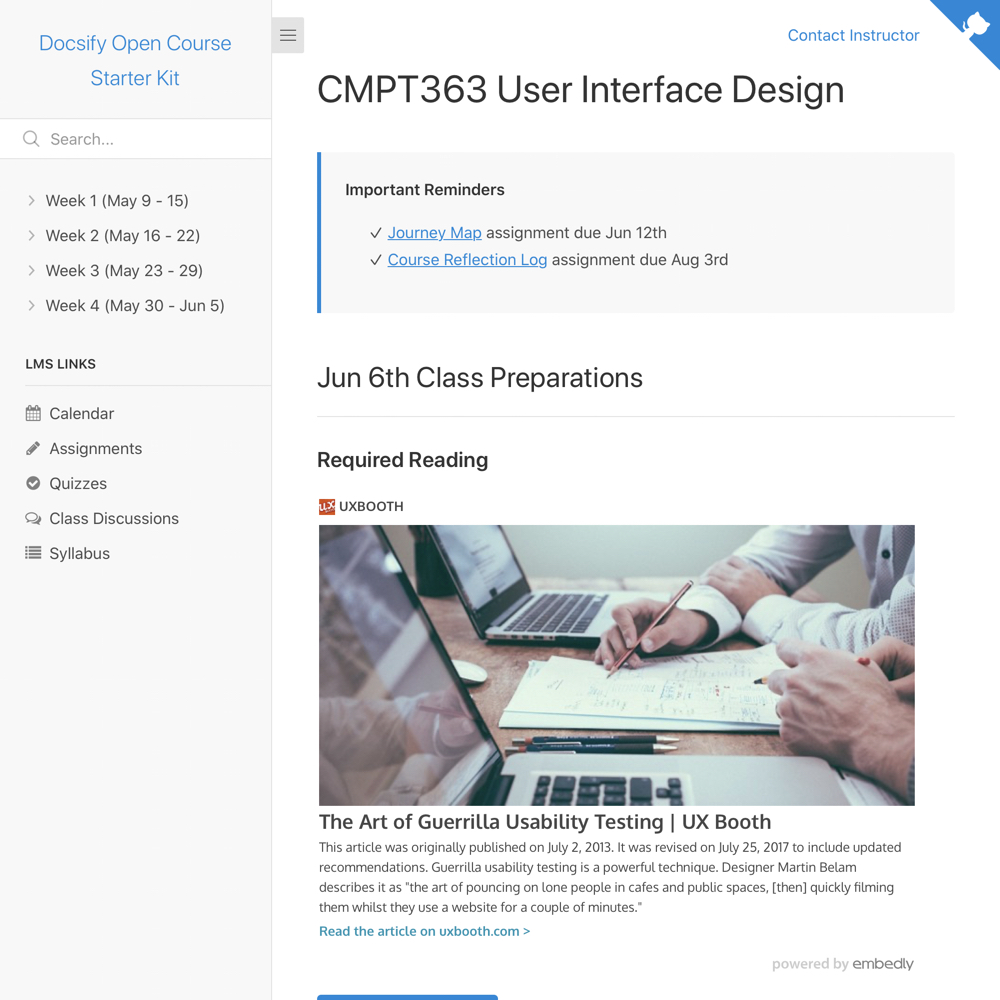
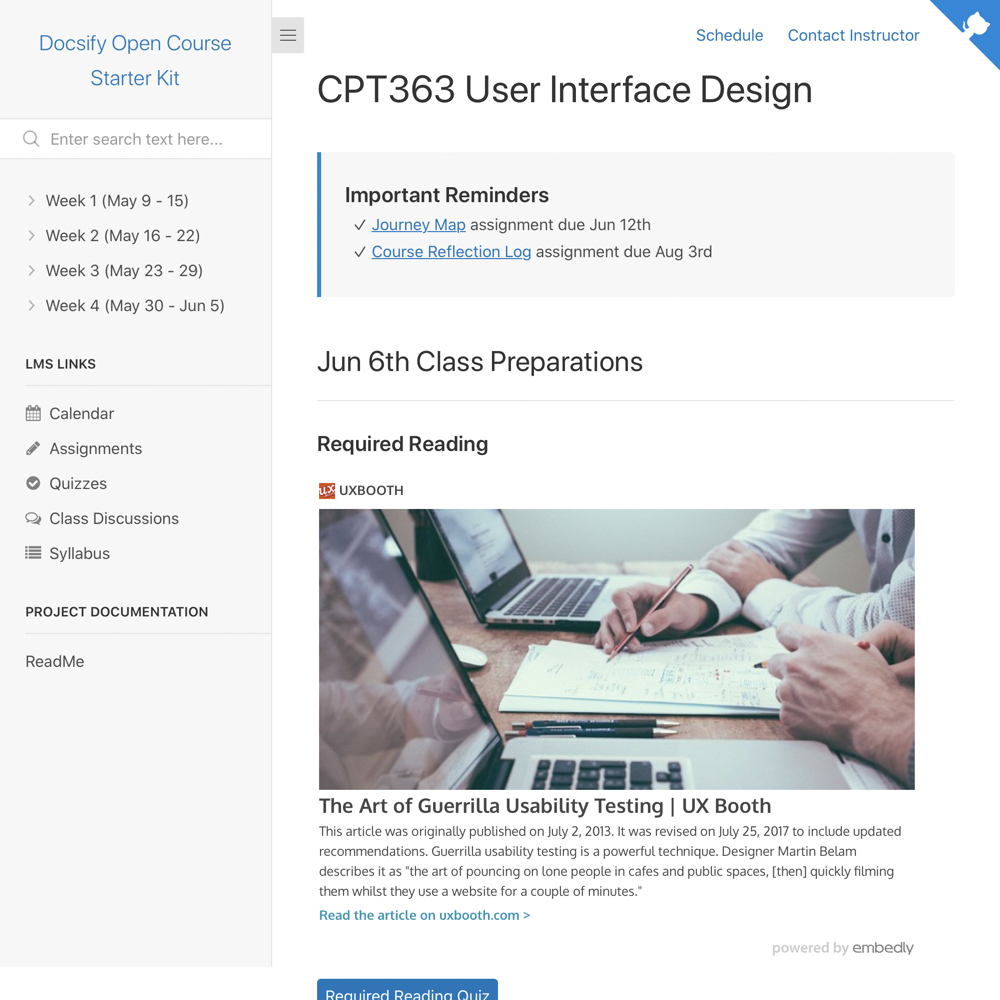
Updated for easier support of multiple item areas in home alert box.

diff --git a/docs/assets/css/theme-custom.css b/docs/assets/css/theme-custom.css
@@ -1,19 +1,20 @@
 :root {
-    --base-font-size                        : 16px;
-    --link-color                            : #0A75BD;
-    --navbar-root-color                     : #0A75BD;
-    --navbar-root-color--active             : #0A75BD;
-    --navbar-root-color--hover              : #0A75BD;
-    --sidebar-name-color                    : #0A75BD;
-    --sidebar-nav-link-color--active        : #4D4D4D;
-    --sidebar-nav-link-font-weight--active  : bold;
-    --pagination-title-color                : #0B87DA;
+  --base-font-size: 16px;
+  --link-color: #0A75BD;
+  --navbar-root-color: #0A75BD;
+  --navbar-root-color--active: #0A75BD;
+  --navbar-root-color--hover: #0A75BD;
+  --sidebar-name-color: #0A75BD;
+  --sidebar-nav-link-color--active: #4D4D4D;
+  --sidebar-nav-link-font-weight--active: bold;
+  --pagination-title-color: #0B87DA;
 }
 
 .video-container {
   position: relative;
   padding-bottom: 56.25%;
-  height: 0; overflow: hidden;
+  height: 0;
+  overflow: hidden;
   max-width: 100%;
 }
 
@@ -25,7 +26,7 @@
   height: 93%;
 }
 
-.responsive-wrap iframe{
+.responsive-wrap iframe {
   max-width: 100%;
 }
 
@@ -46,19 +47,26 @@
 }
 
 .markdown-section .banner-image {
-  width: 100%; /* width of container */
-  height: 200px; /* height of container */
+  width: 100%;
+  /* width of container */
+  height: 200px;
+  /* height of container */
   object-fit: cover;
   object-position: 50% 50%;
 }
 
 .pagination-item, .pagination-item-title {
-    opacity: .9!important;
+  opacity: .9 !important;
 }
 
 .pagination-item:not(:last-child) a .pagination-item-label, .pagination-item:not(:last-child) a .pagination-item-subtitle, .pagination-item:not(:last-child) a .pagination-item-title {
-    opacity: .9!important;
-    transition: all .2s;
+  opacity: .9 !important;
+  transition: all .2s;
+}
+
+blockquote h2 {
+  padding-bottom: 4em;
+   !important;
 }
 
 blockquote ul {
@@ -73,6 +81,52 @@ blockquote ul li {
 }
 
 blockquote ul li:before {
+  content: '\2713';
+  padding-right: 5px;
+}
+
+.reminders {
+  overflow: visible;
+  margin: 2em 0;
+  padding: 1.5em;
+  border-width: var(--blockquote-border-width, 0);
+  border-style: var(--blockquote-border-style);
+  border-color: var(--blockquote-border-color);
+  border-radius: var(--blockquote-border-radius);
+  background: var(--blockquote-background);
+  color: var(--blockquote-color);
+  font-family: var(--blockquote-font-family);
+  font-size: var(--blockquote-font-size);
+  font-style: var(--blockquote-font-style);
+  font-weight: var(--blockquote-font-weight);
+  quotes: "“""”""‘""’";
+}
+
+.reminders h2 {
+  border-style: none;
+  margin: 0;
+  padding: 0;
+}
+
+.reminders h3 {
+  margin: 0;
+  padding: 0;
+}
+
+.reminders ul {
+  list-style: none;
+  margin-top: 0;
+  padding-top: 0;
+  margin-bottom: .5em;
+  padding-bottom: 0;
+}
+
+.reminders ul li {
+  padding-left: 0em;
+  text-indent: -1em;
+}
+
+.reminders ul li:before {
   content: '\2713';
   padding-right: 5px;
 }

diff --git a/docs/home.md b/docs/home.md
@@ -1,8 +1,12 @@
 # CPT363 User Interface Design
 
-> **Important Reminders**
-> * [Journey Map](#) assignment due Jun 12th
-> * [Course Reflection Log](#) assignment due Aug 3rd
+<div class="reminders">
+
+### Important Reminders
+* [Journey Map](#) assignment due Jun 12th
+* [Course Reflection Log](#) assignment due Aug 3rd
+
+</div>
 
 ## Jun 6th Class Preparations
 
